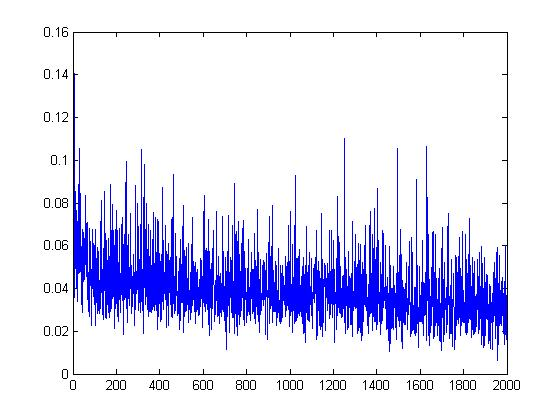
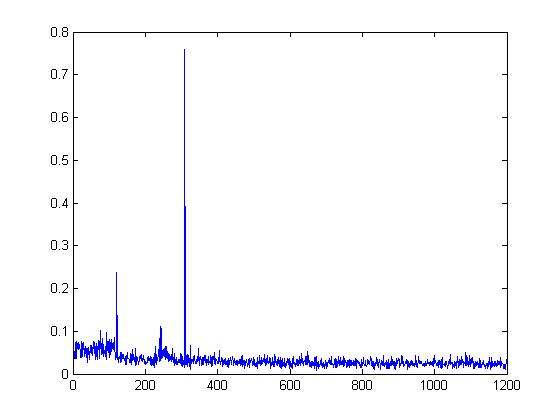
- Elman finished - :D

diff --git a/MatlabFiles/ElMAN/Main.m b/MatlabFiles/ElMAN/Main.m
@@ -16,30 +16,31 @@ testDataSets = dataSet(109:129 , :);
 
 
 %% Initialized weights and other parameters
-numberOfEpoch = 2000;
+numberOfEpoch = 1200;
 
 hiddenNeruns = 6;
 inputSize =9;
 rand('state',7);
 
-Xc = 0.5;
+Xc(1:1 , 1: hiddenNeruns) = 0.5;
 W1 = rand(inputSize , hiddenNeruns);
 W2 = rand(hiddenNeruns ,1  );
-Wc = rand(1,1);
+Wc = rand(hiddenNeruns,hiddenNeruns);
 W1b = rand(1, hiddenNeruns );
 W2b = rand(1,1 );
 G1 = rand( 1,hiddenNeruns)*2 -1;
 
-eta = 0.2;
+eta = 0.4;
 gamma = 0.01;
-eta1(1:inputSize,1:hiddenNeruns) = 0.2;
-eta2(1:hiddenNeruns,1:1) = 0.2;
-eta1b(1:1,1:hiddenNeruns) = 0.2;
-eta2b(1:1,1:1) = 0.2;
-etaG(1:hiddenNeruns) = 0.2;
+eta1(1:inputSize,1:hiddenNeruns) = 0.4;
+eta2(1:hiddenNeruns,1:1) = 0.4;
+etaC(1:hiddenNeruns,1:hiddenNeruns) = 0.04;
+eta1b(1:1,1:hiddenNeruns) = 0.04;
+eta2b(1:1,1:1) = 0.04;
+etaG(1:hiddenNeruns) = 0.04;
 
-delta2 =0;
-delta1(1:1 , 1:hiddenNeruns) =0;
+delta2 =0.0001;
+delta1(1:1 , 1:hiddenNeruns) =0.0001;
 
 
 %% Main loop for each Epoch
@@ -64,7 +65,7 @@ for i = 1: numberOfEpoch
        %*********************************
        % FeedForward
        %*********************************
-       net1 = input * W1 + Wc * Xc + W1b;
+       net1 = input * W1 + Xc * Wc + W1b;
        O1 = logsig(net1);%BipolarSigmoid(net1 , G1);
        net2 = O1 * W2 + W2b ;
        O2 = purelin( net2);
@@ -88,8 +89,7 @@ for i = 1: numberOfEpoch
        %*********< Train W >************
        W1 = W1 + eta1 .*( input' * delta1);
        W2 = W2 + eta2 * delta1 * O1';
-       ss = delta1 .*(O1 + Wc*Xc.*dlogsig(net1 , O1) );
-       Wc = Wc + eta2' * ss';
+       Wc = Wc + etaC .* (Xc' * delta1);
        
        %********<Train bias >***********
        W1b = W1b + eta1b .* delta1;
@@ -112,6 +112,11 @@ for i = 1: numberOfEpoch
                 eta2(k,m )= eta2(k,m) - gamma *((O1(1,k)*delta2(1,m))*(O1(1,k)*delta2Before(1,m)));
             end
        end
+        for k = 1: hiddenNeruns
+            for m=1: hiddenNeruns 
+                etaC(k,m )= etaC(k,m) - gamma *((Xc(1,k)*delta1(1,m))*(Xc(1,k)*delta1Before(1,m)));
+            end
+       end
        
        %*********************************
        % Finish Training
@@ -132,11 +137,11 @@ for i = 1: numberOfEpoch
     %**********************
     % EvalFeedForward
     %**********************
-    net1 = input * W1 + Wc * Xc + W1b;
+    net1 = input * W1 + Xc * Wc + W1b;
     O1 = logsig(net1);%BipolarSigmoid(net1 , G1);
     net2 = O1 * W2 + W2b ;
     O2 = purelin( net2);
-
+    Xc = O1;
     eval_error(j) = (output - O2);
        
    end
@@ -162,10 +167,11 @@ for j =1 : 20
     %*********************************
     % TestFeedForward
     %*********************************  
-       net1 = input * W1 + Wc * Xc + W1b;
+       net1 = input * W1 + Xc * Wc + W1b;
        O1 = logsig(net1);%BipolarSigmoid(net1 , G1);
        net2 = O1 * W2 + W2b ;
        O2 = purelin( net2);
+       Xc = O1;
     
     %*********************************
     % Save some data
